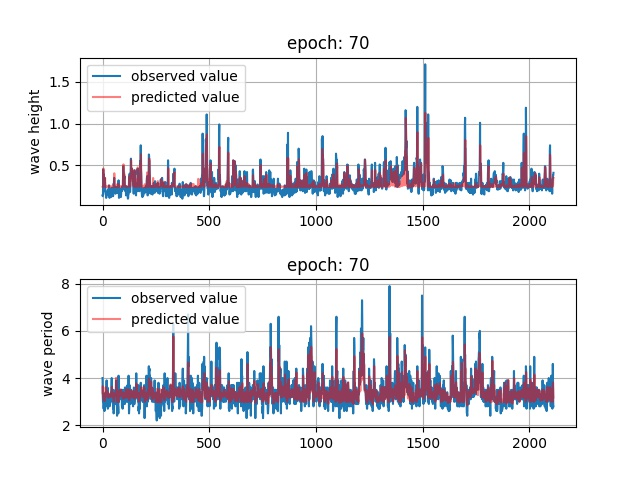
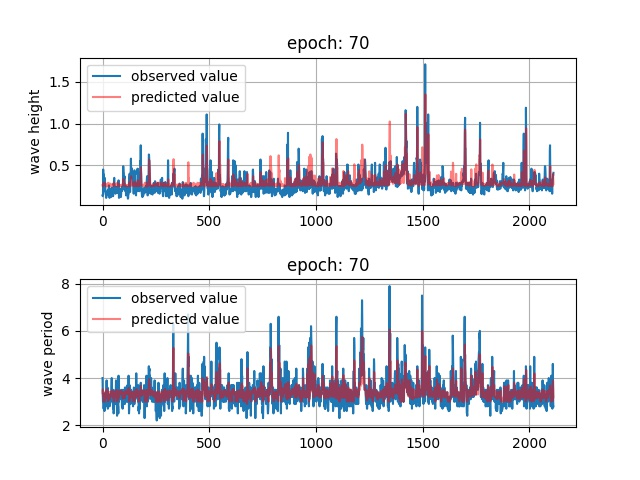
1時間前のデータ　のみ　で予測した

diff --git a/nnwf/datasets/nnwfDataset.py b/nnwf/datasets/nnwfDataset.py
@@ -18,8 +18,7 @@ class NNWFDataset(IterableDataset):
         self.len = len(ndarray_full_record)
         self.__normalize = Custom_transform(ndarray_full_record).normalize()
 
-        self.__wave_height = None
-        self.__wave_period = None
+        self.__past_data = None
 
     def __get_selected_record(self):
         return self.db.cursor().execute(self.__query)
@@ -39,8 +38,7 @@ class NNWFDataset(IterableDataset):
     def __iter__(self): 
         self.__selected_record = self.__get_selected_record()
         one_record = self.__selected_record.fetchone()
-        self.__wave_height = one_record[-2]
-        self.__wave_period = one_record[-1]
+        self.__past_data = torch.Tensor(one_record)
         self.__iterable_buffer = self.__get_record_iterator(self.__selected_record)
         return self
 
@@ -51,11 +49,9 @@ class NNWFDataset(IterableDataset):
             self.__iterable_buffer = self.__get_record_iterator(self.__selected_record)
             record = torch.FloatTensor(next(self.__iterable_buffer))
 
-        data = torch.cat((record[:-2], torch.Tensor([self.__wave_height, self.__wave_period])))
-        data = self.__normalize(data)
+        data = self.__normalize(self.__past_data)
         label = record[-2:]
-        self.__wave_height = label[0]
-        self.__wave_period = label[1]
+        self.__past_data = record
         return data, label
 
     def __len__(self):
